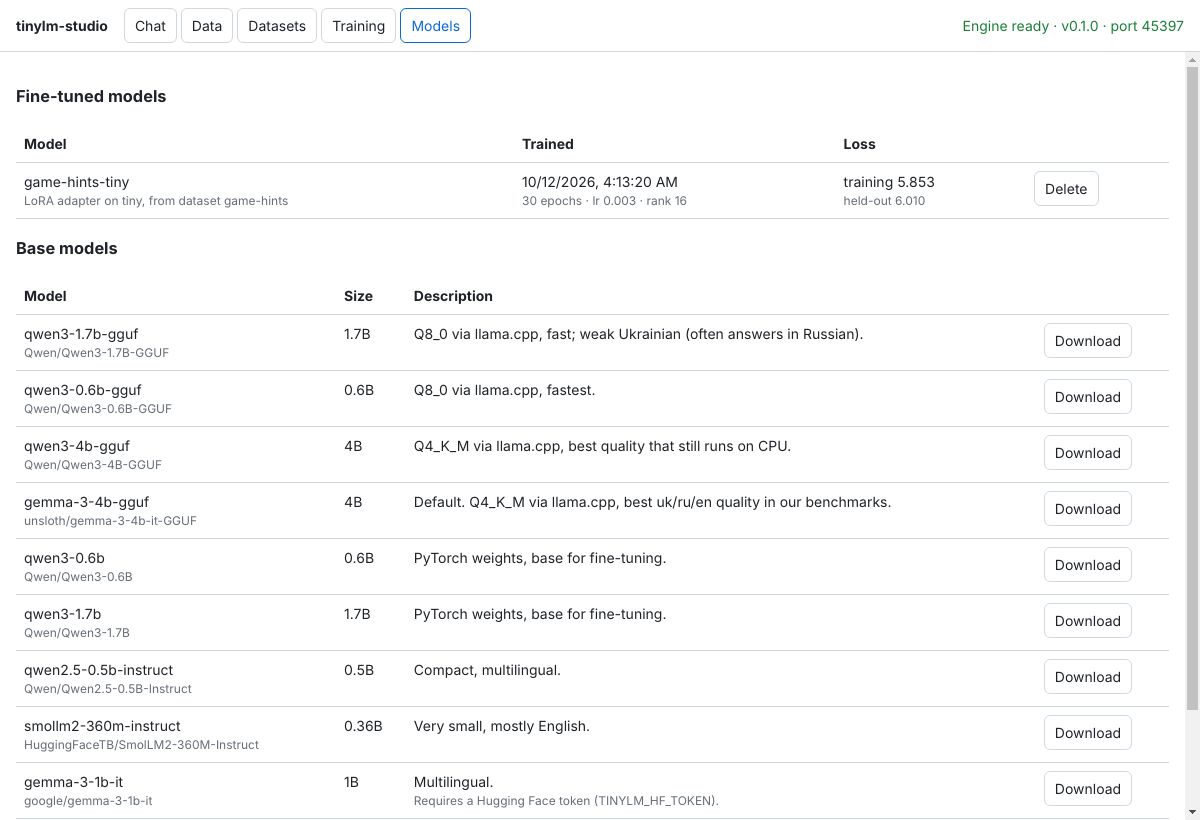
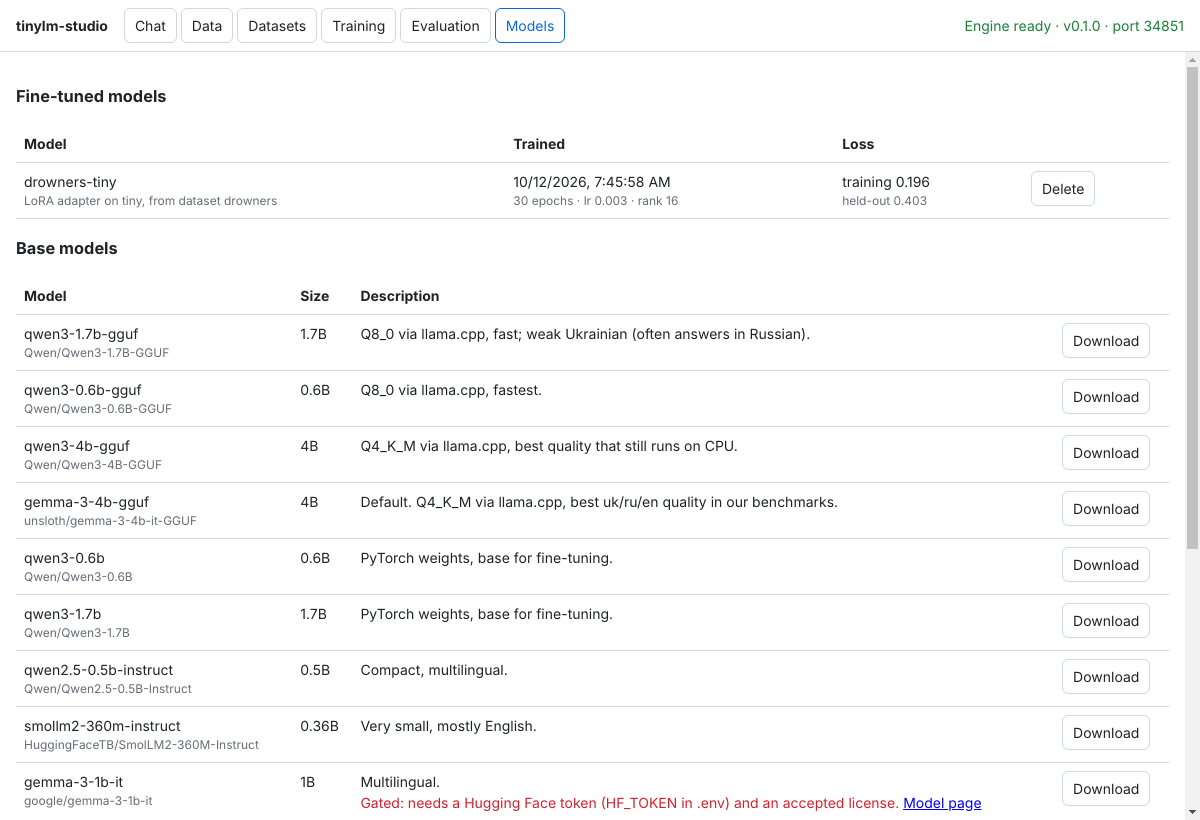
Explain refused downloads of gated models and accept HF_TOKEN directly
The engine now reads HF_TOKEN as well as TINYLM_HF_TOKEN and reports in
GET /api/models whether downloads send a token. A refused download of a gated
model says whether the token is missing (401) or its account has no access
yet (403: accept the license; fine-grained tokens need gated-repo access).
The Models screen marks gated models in red when no token is found and links
to the model page, which opens in the system browser.

Claude-Session: https://claude.ai/code/session_01K6iyxnxtYDs5kNr5qmfTjK

diff --git a/desktop/src/renderer/Models.tsx b/desktop/src/renderer/Models.tsx
@@ -5,13 +5,15 @@ import { Teachers } from "./Teachers";
 export function Models({ client }: { client: EngineClient }) {
   const [catalog, setCatalog] = useState<CatalogEntry[]>([]);
   const [trained, setTrained] = useState<TrainedModel[]>([]);
+  const [hfToken, setHfToken] = useState(true);
   const [confirmDelete, setConfirmDelete] = useState<string | null>(null);
   const [error, setError] = useState<string | null>(null);
 
   const refresh = useCallback(
     () =>
-      Promise.all([client.catalog(), client.trainedModels()]).then(([c, t]) => {
-        setCatalog(c);
+      Promise.all([client.catalogInfo(), client.trainedModels()]).then(([c, t]) => {
+        setCatalog(c.catalog);
+        setHfToken(c.hf_token);
         setTrained(t);
       }, (e) => setError(String(e))),
     [client],
@@ -96,7 +98,16 @@ export function Models({ client }: { client: EngineClient }) {
               <td>{m.params}</td>
               <td>
                 {m.description}
-                {m.gated && <div className="muted">Requires a Hugging Face token (TINYLM_HF_TOKEN).</div>}
+                {m.gated && !m.installed && (
+                  <div className={hfToken ? "muted" : "error"}>
+                    {hfToken
+                      ? "Gated: accept the license on Hugging Face first."
+                      : "Gated: needs a Hugging Face token (HF_TOKEN in .env) and an accepted license."}{" "}
+                    <a href={`https://huggingface.co/${m.repo}`} target="_blank" rel="noreferrer">
+                      Model page
+                    </a>
+                  </div>
+                )}
                 {m.download?.state === "error" && <div className="error">{m.download.error}</div>}
               </td>
               <td>

diff --git a/desktop/src/main/main.ts b/desktop/src/main/main.ts
@@ -1,5 +1,5 @@
 // Electron main process: owns the window and the engine lifecycle.
-import { app, BrowserWindow, ipcMain } from "electron";
+import { app, BrowserWindow, ipcMain, shell } from "electron";
 import { join } from "node:path";
 import { Engine } from "./engine";
 
@@ -14,6 +14,11 @@ function createWindow() {
     height: 750,
     title: "tinylm-studio",
     webPreferences: { preload: join(__dirname, "..", "preload", "preload.js") },
+  });
+  // Links such as a model's Hugging Face page open in the system browser.
+  window.webContents.setWindowOpenHandler(({ url }) => {
+    if (url.startsWith("https://")) shell.openExternal(url);
+    return { action: "deny" };
   });
   window.loadFile(join(__dirname, "..", "renderer", "index.html"));
 }

diff --git a/desktop/src/renderer/api.ts b/desktop/src/renderer/api.ts
@@ -330,7 +330,12 @@ export class EngineClient {
   }
 
   async catalog(): Promise<CatalogEntry[]> {
-    return (await this.json<{ catalog: CatalogEntry[] }>("/api/models")).catalog;
+    return (await this.catalogInfo()).catalog;
+  }
+
+  /** The catalog and whether downloads send a Hugging Face token. */
+  async catalogInfo(): Promise<{ catalog: CatalogEntry[]; hf_token: boolean }> {
+    return this.json("/api/models");
   }
 
   async download(modelId: string): Promise<void> {

diff --git a/engine/src/engine/models/manager.py b/engine/src/engine/models/manager.py
@@ -70,6 +70,13 @@ class ModelManager:
             p for p in self.models_dir.iterdir() if p.is_dir() and not p.name.startswith(".")
         )
 
+    def has_token(self) -> bool:
+        """Whether downloads send a Hugging Face token: from the settings, HF_TOKEN or a saved
+        `hf auth login`."""
+        from huggingface_hub import get_token
+
+        return bool(self.hf_token or get_token())
+
     def catalog(self) -> list[dict]:
         installed = set(self.installed())
         return [
@@ -112,7 +119,7 @@ class ModelManager:
             job.state = "done"
         except Exception as error:  # surfaced to the UI as text
             log.exception("Download of %s failed", spec.id)
-            job.state, job.error = "error", str(error)
+            job.state, job.error = "error", download_error(spec.repo, error)
 
     def runtime(self, model_id: str) -> Runtime:
         """Return a runtime for the model, unloading any other model first."""
@@ -168,6 +175,29 @@ class ModelManager:
             if self._loaded and self._loaded[0] == model_id:
                 self._loaded = None
             shutil.rmtree(path)
+
+
+def download_error(repo: str, error: Exception) -> str:
+    """Explains the usual reasons for a refused download of a gated model."""
+    from huggingface_hub.errors import GatedRepoError
+
+    if not isinstance(error, GatedRepoError):
+        return str(error)
+    page = f"https://huggingface.co/{repo}"
+    response = getattr(error, "response", None)
+    if response is not None and response.status_code == 401:
+        return (
+            f"{repo} is gated and the engine has no Hugging Face token. Put HF_TOKEN=... into "
+            f".env and start the app with make, or set TINYLM_HF_TOKEN; then accept the "
+            f"license at {page}."
+        )
+    return (
+        f"Hugging Face refused access to {repo}: the token was sent, but its account has no "
+        f"access yet. Open {page} while signed in and accept the license (access is granted "
+        "at once for Gemma; a request may wait for approval for other models). A fine-grained "
+        'token also needs the permission "Read access to contents of all public gated repos '
+        'you can access".'
+    )
 
 
 def adapter_base(path: Path) -> str:

diff --git a/engine/tests/test_models.py b/engine/tests/test_models.py
@@ -88,3 +88,27 @@ def test_transformers_runtime_serves_both_apis(tiny_model):
     assert anthropic_reply["stop_reason"] in {"end_turn", "max_tokens"}
     # Same greedy decoding through both protocols gives the same answer.
     assert anthropic_reply["content"][0]["text"] == openai_reply["choices"][0]["message"]["content"]
+
+
+def test_hugging_face_token_and_gated_errors(monkeypatch, tmp_path):
+    import httpx
+    from huggingface_hub.errors import GatedRepoError
+
+    from engine.config import Settings
+    from engine.models.manager import download_error
+
+    monkeypatch.setenv("HF_TOKEN", "hf_from_env")
+    assert Settings(data_dir=tmp_path).hf_token == "hf_from_env"
+    monkeypatch.setenv("TINYLM_HF_TOKEN", "hf_tinylm")
+    assert Settings(data_dir=tmp_path).hf_token == "hf_tinylm"
+
+    def gated(status: int) -> GatedRepoError:
+        request = httpx.Request("GET", "https://huggingface.co/google/gemma-3-1b-it")
+        return GatedRepoError("gated", response=httpx.Response(status, request=request))
+
+    assert "no Hugging Face token" in download_error("google/gemma-3-1b-it", gated(401))
+    refused = download_error("google/gemma-3-1b-it", gated(403))
+    assert (
+        "accept the license" in refused and "https://huggingface.co/google/gemma-3-1b-it" in refused
+    )
+    assert download_error("x/y", RuntimeError("disk full")) == "disk full"

diff --git a/engine/src/engine/config.py b/engine/src/engine/config.py
@@ -4,6 +4,7 @@ import os
 from pathlib import Path
 from typing import Literal
 
+from pydantic import AliasChoices, Field
 from pydantic_settings import BaseSettings, SettingsConfigDict
 
 from engine.rag.embeddings import DEFAULT_EMBEDDING_MODEL
@@ -16,7 +17,7 @@ def default_data_dir() -> Path:
 
 
 class Settings(BaseSettings):
-    model_config = SettingsConfigDict(env_prefix="TINYLM_")
+    model_config = SettingsConfigDict(env_prefix="TINYLM_", populate_by_name=True)
 
     host: str = "127.0.0.1"
     port: int = 8765
@@ -27,7 +28,8 @@ class Settings(BaseSettings):
     enable_echo: bool = False
     # Browser origins allowed to call the API; the desktop app sets this for its renderer.
     cors_origins: list[str] = []
-    hf_token: str | None = None
+    # Hugging Face token; the standard HF_TOKEN works too.
+    hf_token: str | None = Field(None, validation_alias=AliasChoices("TINYLM_HF_TOKEN", "HF_TOKEN"))
     # CPU threads for inference; default is physical cores, at most 8.
     threads: int | None = None
     # Penalizes repeated tokens; small models loop without it.

diff --git a/engine/src/engine/api/admin.py b/engine/src/engine/api/admin.py
@@ -16,6 +16,7 @@ def model_catalog(models: ModelManager = Depends(manager)) -> dict:
         "trainable": models.trainable(),
         "catalog": models.catalog(),
         "default": DEFAULT_MODEL,
+        "hf_token": models.has_token(),
     }
 
 

diff --git a/docs/api.md b/docs/api.md
@@ -112,7 +112,7 @@ Interactive docs: `http://127.0.0.1:8765/docs`.
   - **GGUF** (`*.gguf`, quantized) runs with llama.cpp: the fast option on CPU and the default.
   - **Hugging Face** (`config.json` + safetensors) runs with PyTorch; used as a base for fine-tuning.
 - Any such model folder copied into `<data dir>/models/` is served under the folder name.
-- Gated models (Gemma, Llama) need `TINYLM_HF_TOKEN` and an accepted license on Hugging Face.
+- Gated models (Gemma, Llama) need a token (`TINYLM_HF_TOKEN` or `HF_TOKEN`) and an accepted license on Hugging Face. `GET /api/models` reports `hf_token`: whether downloads send a token (from the settings, `HF_TOKEN` or a saved `hf auth login`). A refused download explains the cause: no token (HTTP 401) or a token whose account has no access to the model yet (HTTP 403).
 - `TINYLM_ENABLE_ECHO=true` (or `make run-engine ECHO=1`) adds an `echo` model that needs no
   weights, for testing clients and the UI.
 
@@ -366,7 +366,7 @@ POST /api/evaluations
 | `TINYLM_DATA_DIR` | `~/.local/share/tinylm-studio` | Models and workspace |
 | `TINYLM_HOST` / `TINYLM_PORT` | `127.0.0.1` / `8765` | Listen address |
 | `TINYLM_API_KEY` | none | Require an API key |
-| `TINYLM_HF_TOKEN` | none | Hugging Face token: needed for gated models, gives faster downloads (the standard `HF_TOKEN` also works) |
+| `TINYLM_HF_TOKEN` | none | Hugging Face token: needed for gated models, gives faster downloads (`HF_TOKEN` works too) |
 | `TINYLM_ENABLE_ECHO` | `false` | Offer the `echo` test model |
 | `TINYLM_CORS_ORIGINS` | `[]` | Allowed browser origins (JSON list) |
 | `TINYLM_THREADS` | physical cores, at most 8 | CPU threads for inference |

diff --git a/docs/user-guide.md b/docs/user-guide.md
@@ -59,7 +59,14 @@ can use them (see [api.md](api.md)).
   PyTorch weights (e.g. `qwen3-0.6b`) are slower to chat with but are the ones that can be
   fine-tuned.
 - Gemma and Llama models are gated: accept their license on Hugging Face and put your token into
-  `.env` as `HF_TOKEN=...`. A token also makes downloads faster.
+  `.env` as `HF_TOKEN=...`. A token also makes downloads faster. `.env` is read by `make`, so
+  start the app with `make run` (or export `HF_TOKEN` yourself). If the token is missing,
+  the gated models are marked in red.
+- "Hugging Face refused access ... the token was sent" means the token reached Hugging Face but
+  its account may not download the model yet: open the model page (the **Model page** link),
+  sign in with the same account and accept the license. A *fine-grained* token also needs the
+  permission "Read access to contents of all public gated repos you can access"; a classic
+  *Read* token works as is.
 - **Fine-tuned models** show the base model, the dataset and the final loss. Deleting one
   removes its folder; the base model stays.
 - Any GGUF file or Hugging Face model folder copied into `<data dir>/models/<name>/` appears too.
